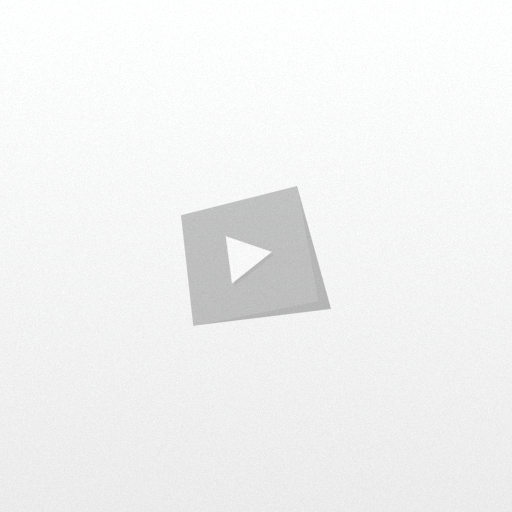
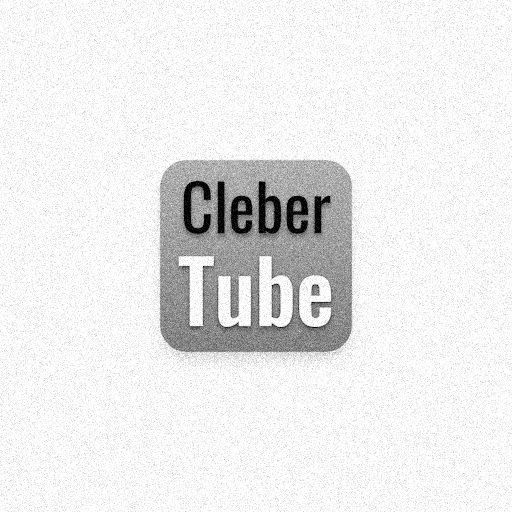
fulptube -> clebertube uh also early dob stuff Lmfao

Changed region(s): [[0.2812, 0.3125, 0.6875, 0.7188]]

diff --git a/private/pages/register.php b/private/pages/register.php
@@ -4,6 +4,7 @@ namespace OpenSB;
 
 global $disableRegistration, $enableInviteKeys, $twig, $database;
 
+use DateTime;
 use SquareBracket\UnorganizedFunctions;
 use SquareBracket\Utilities;
 
@@ -24,6 +25,7 @@ if (isset($_POST['registersubmit'])) {
     $pass = $_POST['pass1'] ?? '';
     $pass2 = $_POST['pass2'] ?? '';
     $mail = filter_var($_POST['email'], FILTER_SANITIZE_EMAIL);
+    $birthdate = $_POST['birthdate'] ?? '';
     if ($enableInviteKeys) {
         $invite = $_POST['invite'];
     }
@@ -31,11 +33,22 @@ if (isset($_POST['registersubmit'])) {
     $error .= UnorganizedFunctions::validateUsername($username, $database);
     if ($database->result("SELECT COUNT(*) FROM users WHERE email = ?", [$mail]) > 0) $error .= "This email address is used by another account. ";
     if (!isset($pass2) || $pass != $pass2) $error .= "The passwords don't match. ";
-    //if (!filter_var($mail, FILTER_VALIDATE_EMAIL)) $error .= "Invalid email format. ";
-    if ($database->result("SELECT COUNT(*) FROM users WHERE ip = ?", [Utilities::get_ip_address()]) > 10)
-        $error .= "Limit of 10 accounts per IP reached. ";
+    if (!filter_var($mail, FILTER_VALIDATE_EMAIL)) $error .= "Invalid email format. ";
+    if ((Utilities::get_ip_address() != "127.0.0.1") || (Utilities::get_ip_address() != "::1")) {
+        if ($database->result("SELECT COUNT(*) FROM users WHERE ip = ?", [Utilities::get_ip_address()]) > 10)
+            $error .= "Your IP address has too many accounts associated with it. ";
+    }
     if ($database->fetch("SELECT COUNT(*) FROM user_old_names WHERE old_name = ?", [$username])["COUNT(*)"] >= 1)
         $error .= "You cannot use someone's previous username. ";
+
+    $dobDateTime = new DateTime($birthdate);
+    $currentDate = new DateTime();
+
+    $age = $currentDate->diff($dobDateTime)->y;
+
+    if ($age < 13) {
+        $error .= "You are below the age of 13. ";
+    }
 
     if ($enableInviteKeys) {
         $inviteValidationResult = $database->result("SELECT id FROM invite_keys WHERE invite_key = ? AND claimed_by IS NULL", [$invite]);
@@ -47,8 +60,9 @@ if (isset($_POST['registersubmit'])) {
     if(!$error) {
         $token = bin2hex(random_bytes(32));
         $hashedPassword = password_hash($pass, PASSWORD_DEFAULT);
-        $database->query("INSERT INTO users (name, password, token, joined, lastview, title, email, ip) VALUES (?, ?, ?, ?, ?, ?, ?, ?)",
-            [$username, $hashedPassword, $token, time(), time(), $username, $mail, Utilities::get_ip_address()]);
+        $database->query("INSERT INTO users (name, password, token, joined, lastview, title, email, ip, birthdate)
+                          VALUES (?, ?, ?, ?, ?, ?, ?, ?, ?)",
+            [$username, $hashedPassword, $token, time(), time(), $username, $mail, Utilities::get_ip_address(), $dobDateTime->format('Y-m-d')]);
         $userId = $database->insertId();
 
         if ($enableInviteKeys) {

diff --git a/private/pages/watch.php b/private/pages/watch.php
@@ -19,7 +19,8 @@ $id = $path[2] ?? null;
 $submission = new UploadData($database, $id);
 
 // check if the upload has been taken down.
-if ($takedown = $submission->getTakedown()) {
+$takedown = $submission->getTakedown();
+if ($takedown && !$auth->isUserAdmin()) {
     // go back to homepage with a notification
     UnorganizedFunctions::Notification("This upload has been taken down.", "/");
 }
@@ -53,7 +54,7 @@ if (isset($data["tags"])) {
 
 $comments = new CommentData($database, CommentLocation::Submission, $id);
 $author = new UserData($database, $data["author"]);
-if ($author->isUserBanned()) {
+if ($author->isUserBanned() && !$auth->isUserAdmin()) {
     UnorganizedFunctions::Notification("This upload's author is banned.", "/");
 }
 
@@ -282,6 +283,15 @@ if ($orange->getLocalOptions()["skin"] == "finalium" || $orange->getLocalOptions
         "ratio" => calculateRatio($dislikes, $likes, $total),
         "current_rating" => $current_rating,
     ];
+}
+
+if ($auth->isUserAdmin() && $takedown) {
+    $page_data["takedown"] = $takedown[0];
+    $page_data["takedown"]["takedownee"] = UnorganizedFunctions::idToUsername($database, $takedown[0]["sender"]);
+    $page_data["author_banned"] = $author->isUserBanned();
+} else {
+    $page_data["takedown"] = [];
+    $page_data["author_banned"] = false;
 }
 
 echo $twig->render('watch.twig', [

diff --git a/private/class/SquareBracket/UnorganizedFunctions.php b/private/class/SquareBracket/UnorganizedFunctions.php
@@ -2,6 +2,8 @@
 
 namespace SquareBracket;
 
+use DateTime;
+
 use Intervention\Image\Drivers\Gd\Driver;
 use Intervention\Image\ImageManager;
 use JetBrains\PhpStorm\NoReturn;
@@ -334,6 +336,32 @@ class UnorganizedFunctions
         } else {
             return false;
         }
+    }
+
+    public static function idToUsername($database, $id)
+    {
+        if ($data = $database->fetch("SELECT name FROM users WHERE id = ?", [$id])) {
+            return $data["name"];
+        } else {
+            return false;
+        }
+    }
+
+    public static function calculateAge($birthdate)
+    {
+        $birthDate = new DateTime($birthdate);
+        $today = new DateTime('now');
+        $interval = $today->diff($birthDate);
+        return $interval->y;
+    }
+
+    public static function calculateAgeFrom($birthdate, $date)
+    {
+        $birthDate = new DateTime($birthdate);
+        $date_fuck = new DateTime();
+        $date_fuck->setTimestamp($date);
+        $interval = $date_fuck->diff($birthDate);
+        return $interval->y;
     }
 
     public static function validateUsername($username, $database, $checkIfTaken = true) {

diff --git a/private/class/SquareBracket/UploadData.php b/private/class/SquareBracket/UploadData.php
@@ -50,7 +50,7 @@ class UploadData
             $this->data = $this->database->fetch("SELECT v.* FROM videos v WHERE v.video_id = ?", [$id]);
         }
         if ($this->data != []) {
-            $this->takedown = $this->database->fetch("SELECT * FROM takedowns t WHERE t.submission = ?", [$id]);
+            $this->takedown = $this->database->fetchArray($this->database->query("SELECT * FROM takedowns t WHERE t.submission = ?", [$id]));
             $this->tags = $this->database->fetchArray($this->database->query("SELECT * FROM `tag_index` ti JOIN tag_meta t ON (t.tag_id = ti.tag_id) WHERE ti.video_id = ?", [$this->data["id"]]));
         }
     }

diff --git a/private/class/SquareBracket/SquareBracketTwigExtension.php b/private/class/SquareBracket/SquareBracketTwigExtension.php
@@ -51,6 +51,9 @@ class SquareBracketTwigExtension extends AbstractExtension
         return [
             new TwigFilter('relative_time', [$this, 'relativeTime']),
 
+            new TwigFilter('calculate_age', [UnorganizedFunctions::class, 'calculateAge']),
+            new TwigFilter('calculate_age_from', [UnorganizedFunctions::class, 'calculateAgeFrom']),
+
             // Markdown function for non-inline text, sanitized.
             new TwigFilter('markdown', function ($text) {
                 $markdown = new Parsedown();

diff --git a/private/class/SquareBracket/Templating.php b/private/class/SquareBracket/Templating.php
@@ -114,7 +114,7 @@ class Templating
         // both squarebracket.pw and fulptube.rocks lead to the same site.
         if (($isChazizSB) && isset($_SERVER['HTTP_HOST']) && ($_SERVER['HTTP_HOST'] == 'fulptube.rocks')) {
             $branding = [
-                "name" => "FulpTube",
+                "name" => "CleberTube",
                 "assets_location" => "/assets/sb_branding/fulp",
             ];
             $isFulpTube = true;
